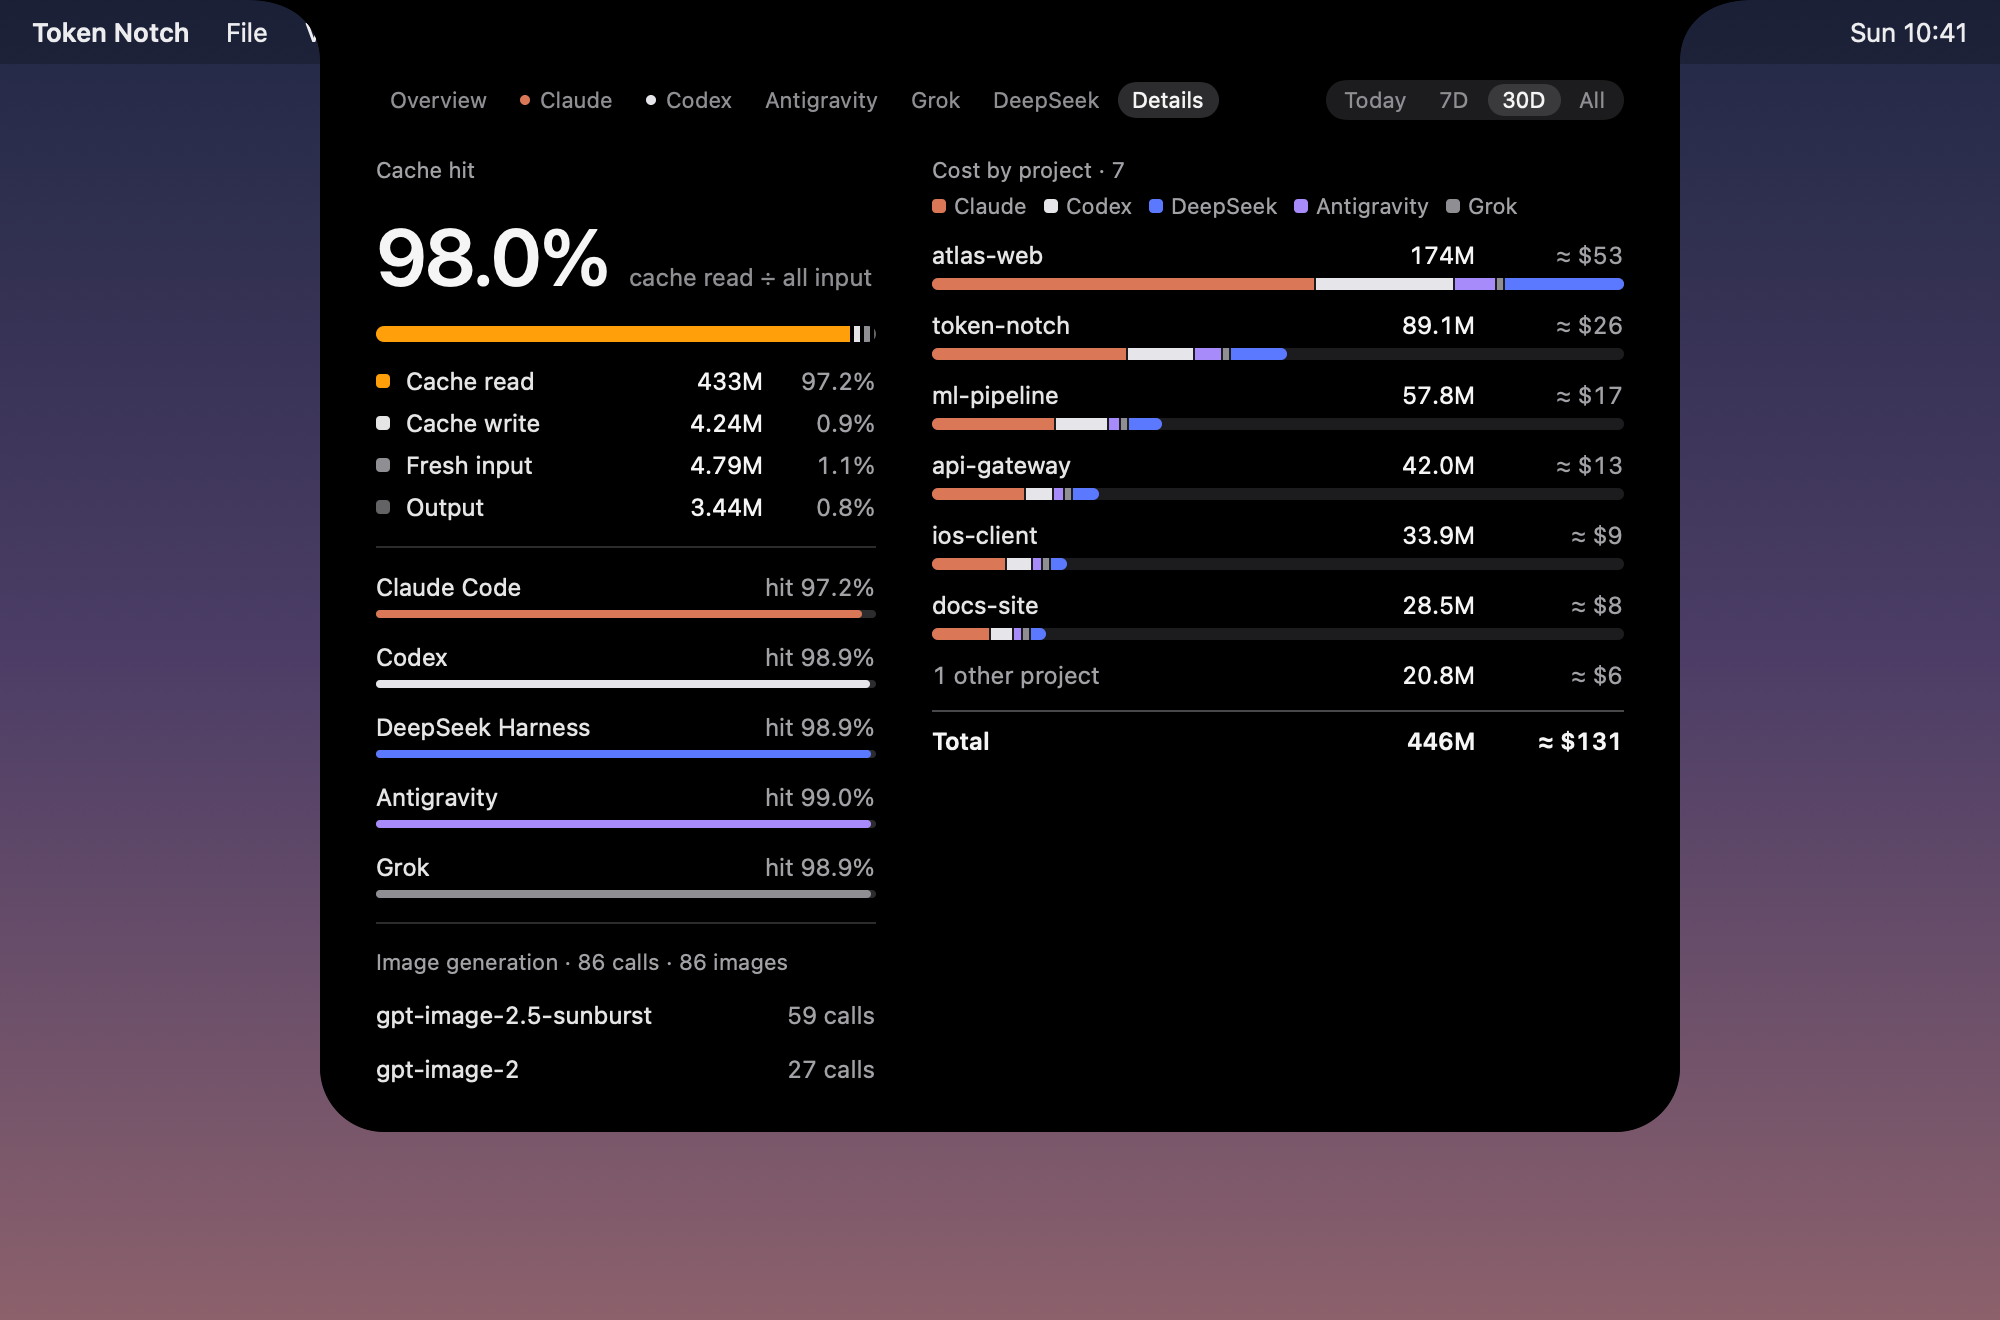
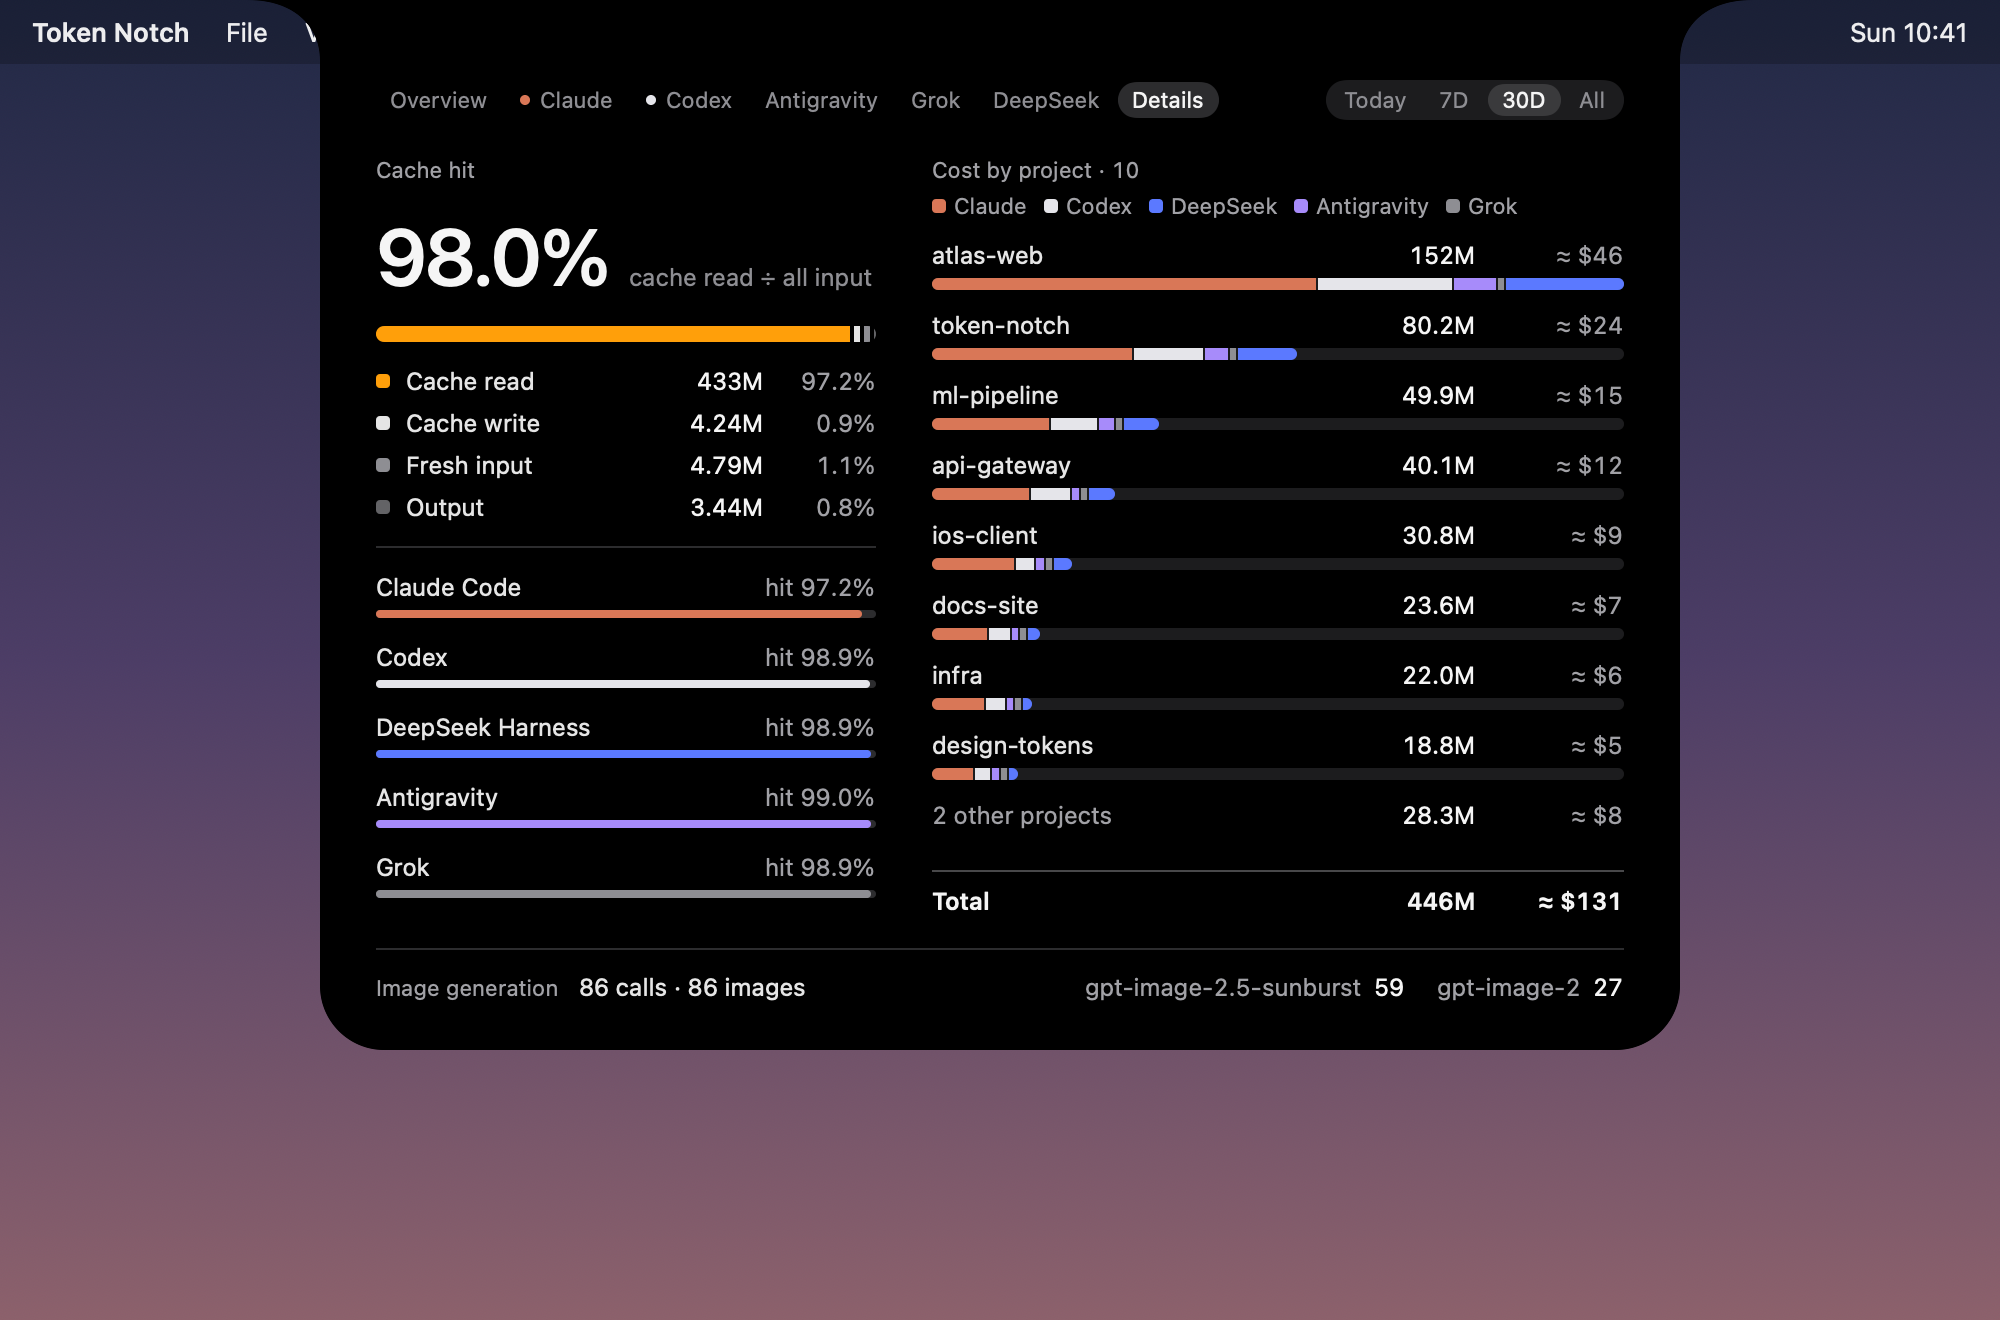
demo: 按新版面重新生成演示素材
- 演示数据多加三个虚构项目，明细页能显示「其他 N 个项目」
- 演示渲染支持换壁纸（TOKEN_NOTCH_DEMO_WALLPAPER），make-demo.sh 顺带生成演示站的分享图

diff --git a/Sources/TokenNotch/DemoVideo.swift b/Sources/TokenNotch/DemoVideo.swift
@@ -189,10 +189,17 @@ enum DemoVideo {
     }
 
     static func backgroundImage(lang: Lang) -> CGImage? {
+        // 壁纸：`TOKEN_NOTCH_DEMO_WALLPAPER` 指向一张图片时铺满画面，否则用渐变
+        let wallpaper = ProcessInfo.processInfo.environment["TOKEN_NOTCH_DEMO_WALLPAPER"].flatMap { NSImage(contentsOfFile: $0) }
         let view = ZStack(alignment: .top) {
-            LinearGradient(colors: [Color(red: 0.13, green: 0.16, blue: 0.27), Color(red: 0.30, green: 0.24, blue: 0.40),
-                                    Color(red: 0.55, green: 0.38, blue: 0.42)],
-                           startPoint: .top, endPoint: .bottom)
+            if let wallpaper {
+                Image(nsImage: wallpaper).resizable().scaledToFill()
+                    .frame(width: canvas.width, height: canvas.height).clipped()
+            } else {
+                LinearGradient(colors: [Color(red: 0.13, green: 0.16, blue: 0.27), Color(red: 0.30, green: 0.24, blue: 0.40),
+                                        Color(red: 0.55, green: 0.38, blue: 0.42)],
+                               startPoint: .top, endPoint: .bottom)
+            }
             HStack(spacing: 18) {
                 Text("Token Notch").fontWeight(.semibold)
                 Text(lang == .en ? "File" : "文件")

diff --git a/Sources/TokenCore/DemoData.swift b/Sources/TokenCore/DemoData.swift
@@ -18,7 +18,8 @@ public enum DemoData {
     }
 
     static let projects = ["~/code/atlas-web", "~/code/token-notch", "~/code/ml-pipeline", "~/code/api-gateway",
-                           "~/code/ios-client", "~/code/docs-site", "~/code/infra"]
+                           "~/code/ios-client", "~/code/docs-site", "~/code/infra", "~/code/design-tokens",
+                           "~/code/billing-svc", "~/code/cli-tools"]
 
     /// (agent, 每日响应数, 模型及权重, 每次响应的上下文规模)
     static let agents: [(Agent, Int, [(String, Double)], Double)] = [
